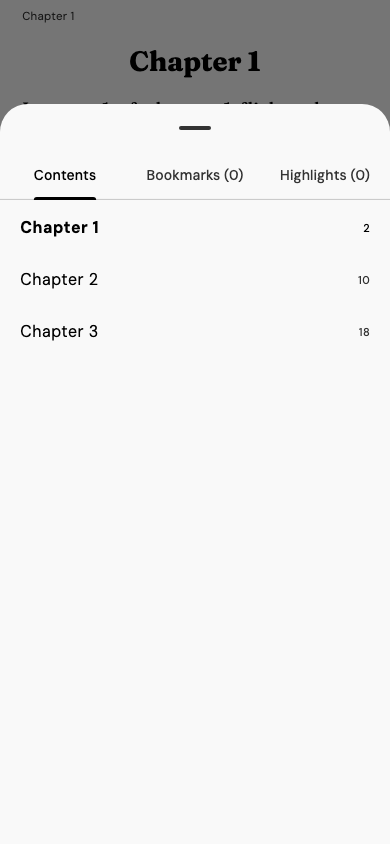
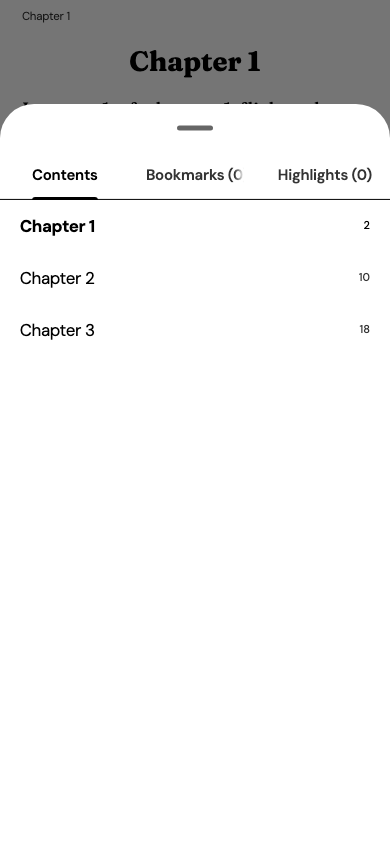
Fit slim phones and large text; finish HIG foundations
- The novel page's "Not downloaded yet" card stacks its button under the
  text on narrow screens or with large text.
- Reader settings tabs always fit the width instead of scrolling, so no
  tab sits half off-screen.
- The reader's header and status bar grow with the system text size.
- Apple text styles carry the app font, so title bars, buttons and chips
  no longer fall back to the system font.
- New reader tests at 320 x 568 and 360 x 640 pt with large text open the
  menus and every settings tab and fail on any overflow; previews at 320
  and 360 pt.

diff --git a/flutter_app/lib/library/novel_detail_screen.dart b/flutter_app/lib/library/novel_detail_screen.dart
@@ -325,16 +325,56 @@ class _NovelDetailScreenState extends State<NovelDetailScreen> {
       if (status != null) _downloadCard(status),
       if (status == null && !hasBook && !novel.isLocal)
         Card(
-          child: ListTile(
-            leading: Icon(Icons.download_outlined, color: colors.primary),
-            title: const Text('Not downloaded yet'),
-            subtitle: const Text('Download the chapters to read them here.'),
-            trailing: FilledButton(
-              key: const Key('download-novel'),
-              onPressed: widget.downloads == null
-                  ? () => widget.onExport(novel)
-                  : () => widget.downloads!.enqueue(url),
-              child: const Text('Download'),
+          child: Padding(
+            padding: const EdgeInsets.all(16),
+            child: LayoutBuilder(
+              builder: (context, box) {
+                final button = FilledButton(
+                  key: const Key('download-novel'),
+                  onPressed: widget.downloads == null
+                      ? () => widget.onExport(novel)
+                      : () => widget.downloads!.enqueue(url),
+                  child: const Text('Download'),
+                );
+                final message = Row(
+                  crossAxisAlignment: CrossAxisAlignment.start,
+                  children: [
+                    Icon(Icons.download_outlined, color: colors.primary),
+                    const SizedBox(width: 12),
+                    Expanded(
+                      child: Column(
+                        crossAxisAlignment: CrossAxisAlignment.start,
+                        children: [
+                          Text('Not downloaded yet', style: text.titleMedium),
+                          const SizedBox(height: 2),
+                          Text(
+                            'Download the chapters to read them here.',
+                            style: text.bodyMedium?.copyWith(
+                              color: colors.onSurfaceVariant,
+                            ),
+                          ),
+                        ],
+                      ),
+                    ),
+                  ],
+                );
+                // Slim phones and large text: put the button under the text.
+                final stacked =
+                    box.maxWidth < 420 ||
+                    MediaQuery.textScalerOf(context).scale(1) > 1.3;
+                return stacked
+                    ? Column(
+                        crossAxisAlignment: CrossAxisAlignment.stretch,
+                        children: [message, const SizedBox(height: 12), button],
+                      )
+                    : Row(
+                        children: [
+                          Expanded(child: message),
+                          const SizedBox(width: 12),
+                          button,
+                        ],
+                      );
+              },
             ),
           ),
         ),

diff --git a/flutter_app/lib/reader/reader_panels.dart b/flutter_app/lib/reader/reader_panels.dart
@@ -24,15 +24,27 @@ extension _Panels on _ReaderScreenState {
             listenable: settings,
             builder: (context, _) => Column(
               children: [
-                const TabBar(
-                  isScrollable: true,
-                  tabAlignment: TabAlignment.center,
+                // Every tab stays visible, shrinking its label on slim phones.
+                TabBar(
+                  labelPadding: const EdgeInsets.symmetric(horizontal: 4),
+                  labelStyle: TextStyles.subheadline.copyWith(
+                    fontWeight: FontWeight.w600,
+                  ),
+                  unselectedLabelStyle: TextStyles.subheadline,
                   tabs: [
-                    Tab(text: 'Text'),
-                    Tab(text: 'Layout'),
-                    Tab(text: 'Theme'),
-                    Tab(text: 'Controls'),
-                    Tab(text: 'Status bar'),
+                    for (final label in const [
+                      'Text',
+                      'Layout',
+                      'Theme',
+                      'Controls',
+                      'Status',
+                    ])
+                      Tab(
+                        child: FittedBox(
+                          fit: BoxFit.scaleDown,
+                          child: Text(label, maxLines: 1),
+                        ),
+                      ),
                   ],
                 ),
                 Expanded(
@@ -54,17 +66,20 @@ extension _Panels on _ReaderScreenState {
     );
   }
 
-  Widget _panel(List<Widget> children) => ListView(
-    padding: const EdgeInsets.fromLTRB(20, 12, 20, 32),
+  Widget _panel(List<Widget> children, {Key? key}) => ListView(
+    key: key,
+    padding: EdgeInsets.fromLTRB(
+      Space.margin(MediaQuery.sizeOf(_ctx).width),
+      12,
+      Space.margin(MediaQuery.sizeOf(_ctx).width),
+      32,
+    ),
     children: children,
   );
 
   Widget _heading(String text) => Padding(
     padding: const EdgeInsets.only(top: 14, bottom: 6),
-    child: Text(
-      text,
-      style: Theme.of(_ctx).textTheme.titleMedium,
-    ),
+    child: Text(text, style: Theme.of(_ctx).textTheme.titleMedium),
   );
 
   Widget _textTab(ReaderSettings settings) => _panel([
@@ -471,7 +486,7 @@ extension _Panels on _ReaderScreenState {
         color: Theme.of(_ctx).colorScheme.onSurfaceVariant,
       ),
     ),
-  ]);
+  ], key: const Key('reader-controls'));
 
   Future<void> _assignButton(
     ReaderSettings settings, {

diff --git a/flutter_app/test/reader_test.dart b/flutter_app/test/reader_test.dart
@@ -423,8 +423,8 @@ void main() {
         find.text('Button for next page'),
         200,
         scrollable: find
-            .ancestor(
-              of: find.text('Tap Zones'),
+            .descendant(
+              of: find.byKey(const Key('reader-controls')),
               matching: find.byType(Scrollable),
             )
             .first,
@@ -437,12 +437,39 @@ void main() {
       );
       await tester.sendKeyEvent(LogicalKeyboardKey.mediaPlayPause);
       await tester.pumpAndSettle();
-      expect(settings.buttons.single.id, LogicalKeyboardKey.mediaPlayPause.keyId);
+      expect(
+        settings.buttons.single.id,
+        LogicalKeyboardKey.mediaPlayPause.keyId,
+      );
       expect(settings.buttons.single.forward, isTrue);
       Navigator.of(tester.element(find.text('Controls'))).pop();
       await tester.pumpAndSettle();
       await press(LogicalKeyboardKey.mediaPlayPause);
       expect(page(), second);
     });
+
+    for (final size in const [Size(320, 568), Size(360, 640)]) {
+      testWidgets('fits a ${size.width.round()}-pt phone with large text', (
+        tester,
+      ) async {
+        tester.platformDispatcher.textScaleFactorTestValue = 1.3;
+        addTearDown(tester.platformDispatcher.clearTextScaleFactorTestValue);
+        await open(tester, size: size);
+        // Menu bars.
+        await tester.tapAt(Offset(size.width / 2, 30));
+        await tester.pumpAndSettle();
+        expect(tester.takeException(), isNull);
+        await tester.tapAt(Offset(size.width / 2, size.height / 2));
+        await tester.pumpAndSettle();
+        // Every settings tab.
+        await tester.tapAt(Offset(size.width / 2, size.height - 20));
+        await tester.pumpAndSettle();
+        for (final tab in ['Layout', 'Theme', 'Controls', 'Status', 'Text']) {
+          await tester.tap(find.text(tab).last);
+          await tester.pumpAndSettle();
+          expect(tester.takeException(), isNull, reason: tab);
+        }
+      });
+    }
   });
 }

diff --git a/flutter_app/lib/ui/tokens.dart b/flutter_app/lib/ui/tokens.dart
@@ -7,58 +7,74 @@ import 'package:flutter/material.dart';
 /// Apple's text styles at the default text size (points). Sizes scale with
 /// the system text size through [MediaQuery.textScaler].
 abstract final class TextStyles {
+  static const _font = 'DM Sans';
+
   static const largeTitle = TextStyle(
+    fontFamily: _font,
     fontSize: 34,
     height: 41 / 34,
     fontWeight: FontWeight.w700,
     letterSpacing: .4,
   );
   static const title1 = TextStyle(
+    fontFamily: _font,
     fontSize: 28,
     height: 34 / 28,
     fontWeight: FontWeight.w700,
     letterSpacing: .38,
   );
   static const title2 = TextStyle(
+    fontFamily: _font,
     fontSize: 22,
     height: 28 / 22,
     fontWeight: FontWeight.w700,
     letterSpacing: -.26,
   );
   static const title3 = TextStyle(
+    fontFamily: _font,
     fontSize: 20,
     height: 25 / 20,
     fontWeight: FontWeight.w600,
     letterSpacing: -.45,
   );
   static const headline = TextStyle(
+    fontFamily: _font,
     fontSize: 17,
     height: 22 / 17,
     fontWeight: FontWeight.w600,
     letterSpacing: -.43,
   );
   static const body = TextStyle(
+    fontFamily: _font,
     fontSize: 17,
     height: 22 / 17,
     letterSpacing: -.43,
   );
   static const callout = TextStyle(
+    fontFamily: _font,
     fontSize: 16,
     height: 21 / 16,
     letterSpacing: -.31,
   );
   static const subheadline = TextStyle(
+    fontFamily: _font,
     fontSize: 15,
     height: 20 / 15,
     letterSpacing: -.23,
   );
   static const footnote = TextStyle(
+    fontFamily: _font,
     fontSize: 13,
     height: 18 / 13,
     letterSpacing: -.08,
   );
-  static const caption1 = TextStyle(fontSize: 12, height: 16 / 12);
+  static const caption1 = TextStyle(
+    fontFamily: _font,
+    fontSize: 12,
+    height: 16 / 12,
+  );
   static const caption2 = TextStyle(
+    fontFamily: _font,
     fontSize: 11,
     height: 13 / 11,
     letterSpacing: .06,

diff --git a/flutter_app/tool/reader_preview_test.dart b/flutter_app/tool/reader_preview_test.dart
@@ -31,11 +31,14 @@ void main() {
     'reader-sepia-menu': ('sepia', 'menu'),
     'reader-night-typeset': ('night', 'typeset'),
     'reader-eink-contents': ('eink', 'contents'),
+    'reader-320-menu': ('paper', 'menu'),
   }.entries) {
     testWidgets('${entry.key} preview', (tester) async {
       // ignore: invalid_use_of_visible_for_testing_member
       SharedPreferences.setMockInitialValues({});
-      tester.view.physicalSize = const Size(390, 844);
+      tester.view.physicalSize = entry.key.contains('320')
+          ? const Size(320, 568)
+          : const Size(390, 844);
       tester.view.devicePixelRatio = 1;
       addTearDown(tester.view.resetPhysicalSize);
       addTearDown(tester.view.resetDevicePixelRatio);
@@ -64,11 +67,11 @@ void main() {
       await tester.pumpAndSettle();
       switch (entry.value.$2) {
         case 'menu':
-          await tester.tapAt(const Offset(195, 40));
+          await tester.tapAt(const Offset(160, 30));
         case 'typeset':
           await tester.tapAt(const Offset(195, 820));
         case 'contents':
-          await tester.tapAt(const Offset(195, 40));
+          await tester.tapAt(const Offset(160, 30));
           await tester.pumpAndSettle();
           await tester.tap(find.text('Contents'));
       }

diff --git a/flutter_app/lib/reader/reader_screen.dart b/flutter_app/lib/reader/reader_screen.dart
@@ -9,6 +9,7 @@ import 'package:flutter/services.dart';
 import 'package:url_launcher/url_launcher.dart';
 
 import '../theme.dart';
+import '../ui/tokens.dart';
 import 'book_files.dart';
 import 'epub_document.dart';
 import 'reader_settings.dart';
@@ -1089,9 +1090,12 @@ class _ReaderScreenState extends State<ReaderScreen>
 
   Widget _body(BoxConstraints box, ReaderPalette pal) {
     final pad = MediaQuery.viewPaddingOf(context);
-    final headerH = s.header ? 26.0 : 0.0;
+    // The header and status bar grow with the system text size.
+    final line = MediaQuery.textScalerOf(context).scale(11.5) * 1.35;
+    final headerH = s.header ? line + 10 : 0.0;
     final footerH = s.footer
-        ? (s.footerItems.contains(FooterItem.progressBar) ? 30.0 : 22.0)
+        ? line +
+              (s.footerItems.contains(FooterItem.progressBar) ? 13.0 : 4.0)
         : 0.0;
     final left = pad.left + s.marginSide, right = pad.right + s.marginSide;
     final top = pad.top + headerH + s.marginTop;

diff --git a/flutter_app/tool/preview_test.dart b/flutter_app/tool/preview_test.dart
@@ -27,6 +27,8 @@ void main() {
     'ereader-light': (const Size(390, 844), AppAppearance.ereaderLight),
     'ereader-dark': (const Size(390, 844), AppAppearance.ereaderDark),
     'more': (const Size(390, 844), AppAppearance.dark),
+    'phone-320': (const Size(320, 568), AppAppearance.light),
+    'phone-360': (const Size(360, 780), AppAppearance.dark),
   }.entries) {
     testWidgets('${entry.key} preview', (tester) async {
       tester.view.physicalSize = entry.value.$1;
